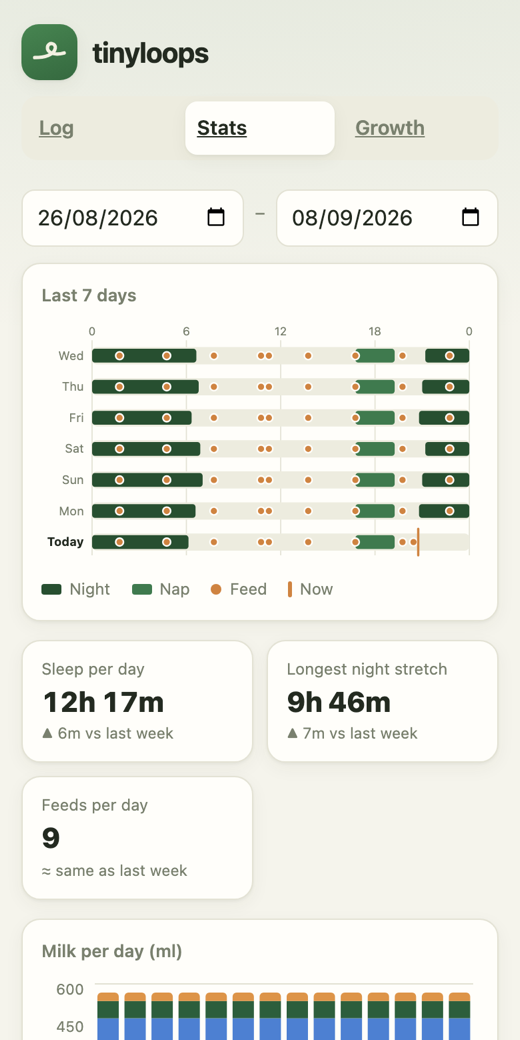
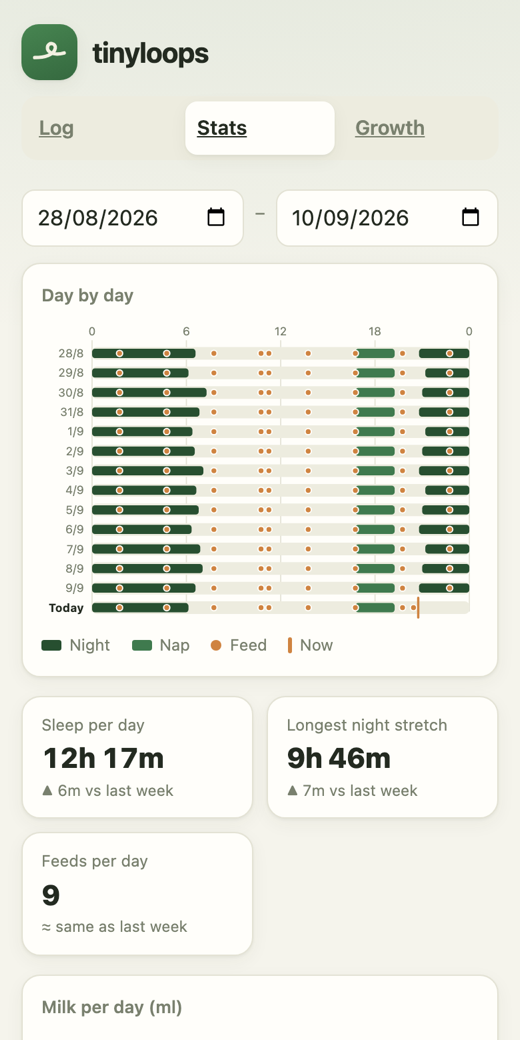
rythm with data picker

diff --git a/web/src/components/charts/Rhythm.jsx b/web/src/components/charts/Rhythm.jsx
@@ -86,13 +86,18 @@ export function DayBand({ day, nowMin }) {
 
 // ---- the week, one 24h band per day ----
 
-function WeekBands({ days, nowMin }) {
-  const W = 380, rowH = 15, gap = 12, x0 = 44, x1 = W - 8;
-  const H = 20 + days.length * (rowH + gap);
+function WeekBands({ days, nowMin, labelStep = 1 }) {
+  // rows shrink as the picked range grows, so 92 days still fit on a phone
+  const nDays = days.length;
+  const rowH = nDays <= 7 ? 15 : nDays <= 21 ? 11 : 8;
+  const gap = nDays <= 7 ? 12 : nDays <= 21 ? 6 : 3;
+  const dotR = nDays <= 7 ? 3.4 : nDays <= 21 ? 2.7 : 2.1;
+  const W = 380, x0 = 44, x1 = W - 8;
+  const H = 20 + nDays * (rowH + gap);
   const X = (min) => x0 + (min / MIN_DAY) * (x1 - x0);
   return (
     <svg className="rhythm-week" viewBox={`0 0 ${W} ${H}`} role="img"
-      aria-label="Sleeps and feeds over the last 7 days, one row per day">
+      aria-label={`Sleeps and feeds, one row per day, ${nDays} days`}>
       {[0, 6, 12, 18, 24].map((h) => (
         <g key={h}>
           <line x1={X(h * 60)} y1={14} x2={X(h * 60)} y2={H - 8}
@@ -105,25 +110,28 @@ function WeekBands({ days, nowMin }) {
         const y = 20 + i * (rowH + gap);
         return (
           <g key={day.date}>
-            <text x={x0 - 7} y={y + rowH - 4} textAnchor="end" fontSize="10.5"
-              fill={day.today ? 'var(--ink)' : 'var(--muted)'}
-              fontWeight={day.today ? 700 : 400}>{day.name}</text>
-            <rect x={x0} y={y} width={x1 - x0} height={rowH} rx={4} fill="var(--chip)" />
+            {(day.today || i % labelStep === 0) && (
+              <text x={x0 - 7} y={y + rowH / 2 + 3.5} textAnchor="end" fontSize="10"
+                fill={day.today ? 'var(--ink)' : 'var(--muted)'}
+                fontWeight={day.today ? 700 : 400}>{day.name}</text>
+            )}
+            <rect x={x0} y={y} width={x1 - x0} height={rowH} rx={Math.min(4, rowH / 2)}
+              fill="var(--chip)" />
             {day.spans.map((sp, j) => (
               <rect key={j} x={X(sp.a)} y={y + 1.5}
                 width={Math.max(X(sp.b) - X(sp.a), 3)} height={rowH - 3}
-                rx={2.5} fill={spanFill(sp)}>
+                rx={Math.min(2.5, (rowH - 3) / 2)} fill={spanFill(sp)}>
                 <title>{`${spanName(sp)} ${fmtHm(sp.a)}–${fmtHm(sp.b)}`}</title>
               </rect>
             ))}
             {day.feeds.map((m, j) => (
-              <circle key={j} cx={X(m)} cy={y + rowH / 2} r="3.4" fill="var(--warm)"
-                stroke="var(--card)" strokeWidth="1.4">
+              <circle key={j} cx={X(m)} cy={y + rowH / 2} r={dotR} fill="var(--warm)"
+                stroke="var(--card)" strokeWidth={dotR / 2.4}>
                 <title>{`Feed ${fmtHm(m)}`}</title>
               </circle>
             ))}
             {day.today && (
-              <line x1={X(nowMin)} y1={y - 4} x2={X(nowMin)} y2={y + rowH + 4}
+              <line x1={X(nowMin)} y1={y - 3} x2={X(nowMin)} y2={y + rowH + 3}
                 stroke="var(--warm)" strokeWidth="2" strokeLinecap="round" />
             )}
           </g>
@@ -140,8 +148,9 @@ export function Rhythm({ rhythm }) {
   return (
     <>
       <div className="card">
-        <h3>Last 7 days</h3>
-        <WeekBands days={rhythm.days} nowMin={rhythm.nowMin} />
+        <h3>Day by day</h3>
+        <WeekBands days={rhythm.days} nowMin={rhythm.nowMin}
+          labelStep={rhythm.labelStep} />
         <Legend night={hasNight(rhythm.days)} />
       </div>
       {rhythm.tiles.length > 0 && (

diff --git a/test/views.test.js b/test/views.test.js
@@ -276,13 +276,17 @@ describe('solids food chips (home payload)', () => {
   });
 });
 
+// buildRhythm draws whatever range the stats date picker holds
+const FROM7 = isoToWallMs('2026-08-23');
+const TO7 = isoToWallMs('2026-08-29');
+
 describe('buildRhythm', () => {
-  it('hides the section when nothing relevant was logged recently', () => {
-    expect(buildRhythm([], SETTINGS, NOW).any).toBe(false);
-    expect(buildRhythm(newestFirst([ev('wet', '2026-08-29T09:00')]), SETTINGS, NOW).any)
-      .toBe(false);
+  it('hides the section when the picked range has nothing to draw', () => {
+    expect(buildRhythm([], SETTINGS, NOW, FROM7, TO7).any).toBe(false);
+    expect(buildRhythm(newestFirst([ev('wet', '2026-08-29T09:00')]),
+      SETTINGS, NOW, FROM7, TO7).any).toBe(false);
     expect(buildRhythm(newestFirst([ev('sleep', '2026-08-01T20:00', { durationMin: 60 })]),
-      SETTINGS, NOW).any).toBe(false); // >14 days old
+      SETTINGS, NOW, FROM7, TO7).any).toBe(false); // outside the range
   });
 
   it('splits sleeps at midnight and clips open sleeps to now', () => {
@@ -290,7 +294,7 @@ describe('buildRhythm', () => {
       ev('sleep', '2026-08-28T22:00', { durationMin: 240 }), // 22:00 → 02:00
       ev('sleep', '2026-08-29T13:00', { open: true }),       // running, now = 14:00
       ev('feed', '2026-08-29T09:00', { durationMin: 10 }),
-    ]), SETTINGS, NOW);
+    ]), SETTINGS, NOW, FROM7, TO7);
     expect(r.any).toBe(true);
     expect(r.nowMin).toBe(14 * 60);
     const fri = r.days[5], sat = r.days[6];
@@ -300,6 +304,17 @@ describe('buildRhythm', () => {
     expect(sat.today).toBe(true);
     expect(sat.spans).toEqual([{ a: 0, b: 2 * 60 }, { a: 13 * 60, b: 14 * 60 }]);
     expect(sat.feeds).toEqual([9 * 60]);
+  });
+
+  it('follows the picker: one band per day of the range, labels stepped', () => {
+    const r = buildRhythm(newestFirst([
+      ev('sleep', '2026-08-10T13:00', { durationMin: 60 }),
+    ]), SETTINGS, NOW, isoToWallMs('2026-08-01'), isoToWallMs('2026-08-29'));
+    expect(r.days).toHaveLength(29);
+    expect(r.labelStep).toBe(2);
+    expect(r.days[0].name).toBe('1/8'); // long ranges label by date, not weekday
+    expect(r.days[9].spans).toEqual([{ a: 13 * 60, b: 14 * 60 }]);
+    expect(r.days[28].name).toBe('Today');
   });
 
   it('ships a pageable week of day strips in the home summary', () => {
@@ -405,7 +420,7 @@ describe('buildRhythm', () => {
       evs.push(ev('feed', `2026-08-${dd}T08:00`, { durationMin: 10 }));
       evs.push(ev('bottle', `2026-08-${dd}T15:00`, { amountMl: 100 }));
     }
-    const r = buildRhythm(newestFirst(evs), SETTINGS, NOW);
+    const r = buildRhythm(newestFirst(evs), SETTINGS, NOW, FROM7, TO7);
     const tile = (label) => r.tiles.find((t) => t.label === label);
 
     // current window (22–28 Aug) has 12h/day; the previous window's first day

diff --git a/server/views.js b/server/views.js
@@ -584,32 +584,36 @@ function minDelta(cur, prev) {
 const fmtPerDay = (x) => (Math.round(x * 10) / 10).toFixed(1).replace(/\.0$/, '');
 
 /**
- * The week-shape payload for stats: the last 7 days as stacked bands plus
- * week-over-week trend tiles (today's 24h loop lives in the home summary).
- * All minutes-of-day and all clipping happen here — the client only draws.
- * Tiles compare the last 7 COMPLETE days (ending yesterday) with the 7
- * before, so today's partial day never skews an average.
+ * The rhythm payload for stats: every day of the PICKED range [fromWall,
+ * toWall] as a stacked band, plus week-over-week trend tiles. All
+ * minutes-of-day and all clipping happen here — the client only draws.
+ * Tiles stay anchored to the last 7 COMPLETE days vs the 7 before (their
+ * deltas literally say "vs last week"), so only the bands follow the picker.
  */
-export function buildRhythm(events, settings, nowWall) {
+export function buildRhythm(events, settings, nowWall, fromWall, toWall) {
   const today = dayStart(nowWall);
   const nowMin = Math.round((nowWall - today) / MS_PER_MIN);
-
-  const horizon = today - 14 * MS_PER_DAY;
-  const any = events.some((e) => e.startWall != null && e.startWall >= horizon &&
-    (e.type === 'sleep' || e.type === 'feed' || e.type === 'bottle'));
-  if (!any) return { any: false };
+  const n = Math.round((toWall - fromWall) / MS_PER_DAY) + 1;
 
   const days = [];
-  for (let i = 6; i >= 0; i--) {
-    const s = today - i * MS_PER_DAY;
+  for (let i = 0; i < n; i++) {
+    const s = fromWall + i * MS_PER_DAY;
+    const dd = d(s);
     days.push({
       date: wallMsToDate(s),
-      name: i === 0 ? 'Today' : DAYS[d(s).getUTCDay()],
+      name: s === today ? 'Today'
+        : n <= 7 ? DAYS[dd.getUTCDay()]
+        : `${dd.getUTCDate()}/${dd.getUTCMonth() + 1}`,
       spans: sleepSegments(events, s, s + MS_PER_DAY, nowWall),
       feeds: feedMinutes(events, s, s + MS_PER_DAY),
-      today: i === 0,
+      today: s === today,
     });
   }
+  // hide the bands when the picked range holds nothing to draw
+  const any = days.some((day) => day.spans.length || day.feeds.length);
+  if (!any) return { any: false };
+  // label crowding control, same steps as the milk chart
+  const labelStep = n <= 14 ? 1 : n <= 31 ? 2 : n <= 45 ? 5 : 10;
 
   let firstWall = Infinity;
   for (const e of events) if (e.startWall != null && e.startWall < firstWall) firstWall = e.startWall;
@@ -636,7 +640,7 @@ export function buildRhythm(events, settings, nowWall) {
     }
   }
 
-  return { any: true, nowMin, days, tiles };
+  return { any: true, nowMin, days, labelStep, tiles };
 }
 
 /** One day's entries (the /api/days/:date endpoint). */

diff --git a/server/index.js b/server/index.js
@@ -150,7 +150,7 @@ app.use('/api/*', async (c, next) => {
     const r = statsRange(c, now);
     if (!r) return c.json({ error: 'Invalid date range.' }, 400);
     const stats = buildStats(events, DEMO_SETTINGS, r.from, r.to);
-    stats.rhythm = buildRhythm(events, DEMO_SETTINGS, now);
+    stats.rhythm = buildRhythm(events, DEMO_SETTINGS, now, r.from, r.to);
     return c.json(stats);
   }
   if (path.startsWith('/api/days/')) {
@@ -236,7 +236,7 @@ app.get('/api/stats', async (c) => {
   const stats = buildStats(state.events, state.settings, r.from, r.to);
   // rhythm rides along on /api/stats: it needs no extra sheet read, and a
   // separate endpoint would double the Google quota cost of the Stats page
-  stats.rhythm = buildRhythm(state.events, state.settings, nowWall(c));
+  stats.rhythm = buildRhythm(state.events, state.settings, nowWall(c), r.from, r.to);
   return c.json(stats);
 });
 
